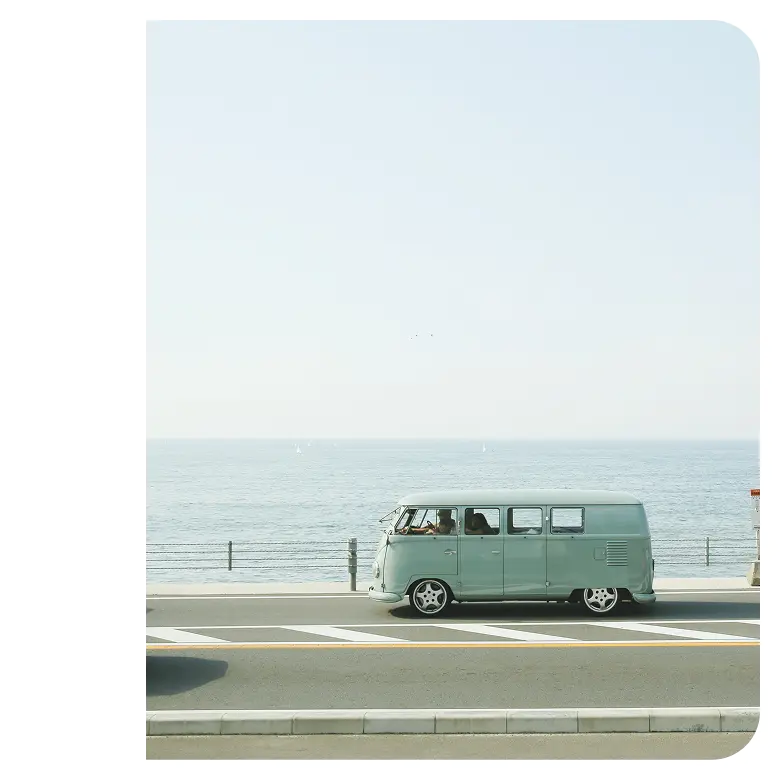
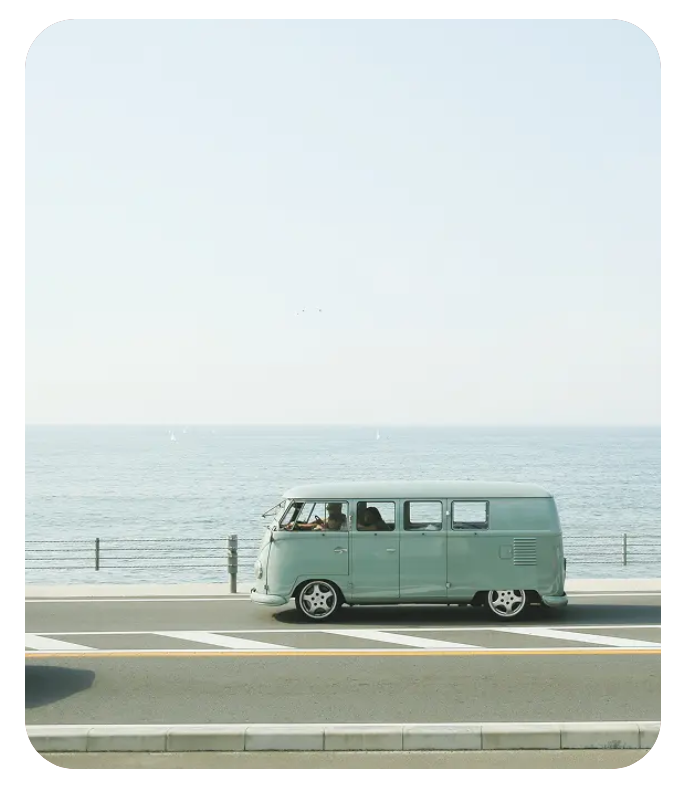
[content] expand home page for features and recommendations (#706)
This would be a start to address #699 to expand which features we list on the front page, and also makes a section for the 'recommendations' that people have given for CoMaps (see https://codeberg.org/comaps/communication/issues/95 and [the wiki](https://codeberg.org/comaps/comaps/wiki/Social+Proof+-+What+they+say+about+us+[recognitions%2C+certificates%2C+audits%2C+spotlights%2C+recommendations].-)).

Concretely, this includes:

* Expanding the section about offline routing, by including details to Turn-By-Turn & TTS, using one of the "CoMaps in a car" photos as visual
* Adds a section about hiking (that also mentions wiki articles) which re-uses the prior hiking image
* Adds a section on public transport, with the necessary screenshot & stock image
* Adds a section on the recommendations for CoMaps, which also highlights biking in screenshot/stock iamge

As the reshuffling meant some images have moved from left to right, I had to re-create those prior images as they for some reason had some very strange formatting issues as they didn't properly fill the frame

diff --git a/content/_index.md b/content/_index.md
@@ -9,8 +9,8 @@ extra:
     services:
         items:
             -
-                title: Offline Search and Route
-                description: Plan and navigate your trip abroad with just GPS, no need for mobile data. Search waypoints while on distant hiking trails or bike paths.
+                title: Offline Search and Routing
+                description: Plan and navigate your trip abroad with just GPS, no need for mobile data. Search waypoints while on remote hiking trails or bike paths. Navigate with turn-by-turn instructions by foot, bike or car, including voice announcements.
                 highlight:
                     text: No internet needed
                     icon: static/images/icons/home/wifi-off.svg
@@ -18,14 +18,14 @@ extra:
                     map: /images/sections/map-s-1.webp
                     user: /images/sections/map-m-1.webp
             -
-                title: No Data Collection
-                description: The app is designed with privacy in mind - does not identify people, does not track you, and does not collect any information. CoMaps was also audited by <span class="text-icon"><svg viewBox="0 0 19 19"><use href="#icon-exodus"></use></svg> [Exodus](https://reports.exodus-privacy.eu.org/reports/app.comaps.google/latest/).
+                title: Hike with the Information you Need
+                description: Use the outdoor mode to highlight hiking trails, campsites, and water sources. Enable contour lines to plan your trip. Spot an interesting peak along the way? Use the offline *Wikipedia* articles to learn more about it!
                 highlight:
-                    text: Privacy by default
-                    icon: static/images/icons/home/shield.svg
+                    text: Explore nature
+                    icon: static/images/icons/home/mappin-small.svg
                 media:
-                    map: /images/sections/map-s-2.webp
-                    user: /images/sections/map-m-2.webp
+                    map: /images/sections/map-s-5.webp
+                    user: /images/sections/map-m-5.webp
             -
                 title: Save Your Battery
                 description: Efficiently uses the battery, doesn’t drain your battery like other navigation apps.
@@ -35,6 +35,35 @@ extra:
                 media:
                     map: /images/sections/map-s-3.webp
                     user: /images/sections/map-m-3.webp
+            -
+                title: Get around the City
+                description: Use the public transport layer to plan your subway and light rail journeys in a growing list of cities.
+                highlight:
+                    text: Explore the city
+                    icon: static/images/icons/home/train-m.svg
+                media:
+                    map: /images/sections/map-s-6.webp
+                    user: /images/sections/map-m-6.webp
+            -
+                title: No Data Collection
+                description: The app is designed with privacy in mind - does not identify people, does not track you, and does not collect any information. CoMaps was also audited by <span class="text-icon"><svg viewbox="0 0 19 19"><use href="#icon-exodus"></use></svg> [Exodus](https://reports.exodus-privacy.eu.org/reports/app.comaps.google/latest/), a privacy auditor.
+                highlight:
+                    text: Privacy by default
+                    icon: static/images/icons/home/shield.svg
+                media:
+                    map: /images/sections/map-s-2.webp
+                    user: /images/sections/map-m-2.webp
+            -
+                title: A True Alternative
+                description: CoMaps is recommended by *[Switching Software](https://switching.software/replace/google-maps/)*, *[European & Open Source Alternatives](https://european-alternatives.cloud/en/browse?category=maps)*, *[Digital Independence Day](https://di.day/en/digital-switch-recipes/maps)* ,and *[Framastart](https://framastart.org/smartphone/)* as an ethical, easy-to-use and privacy-conscious alternative to commercial maps.
+                highlight:
+                    text: Independent maps
+                    icon: static/images/icons/home/route-arrows-up-icon.svg
+                media:
+                    map: /images/sections/map-s-7.webp
+                    user: /images/sections/map-m-7.webp
+
+
             -
                 title: Free and Built by the Community
                 description: People like you are helping build the app by adding locations to <span class="text-icon"><svg viewBox="0 0 19 19"><use href="#icon-open-street-map"></use></svg> [OpenStreetMap](https://openstreetmap.org)</span>, giving feedback on features, and contributing code on <span class="text-icon"><svg viewbox="0 0 4.233 4.233"> <use href="#icon-codeberg"></use></svg> [Codeberg](https://codeberg.org/comaps)</span> to create great maps together. The project is a fork of Organic Maps and Maps.Me, and driven by an open-source community.
